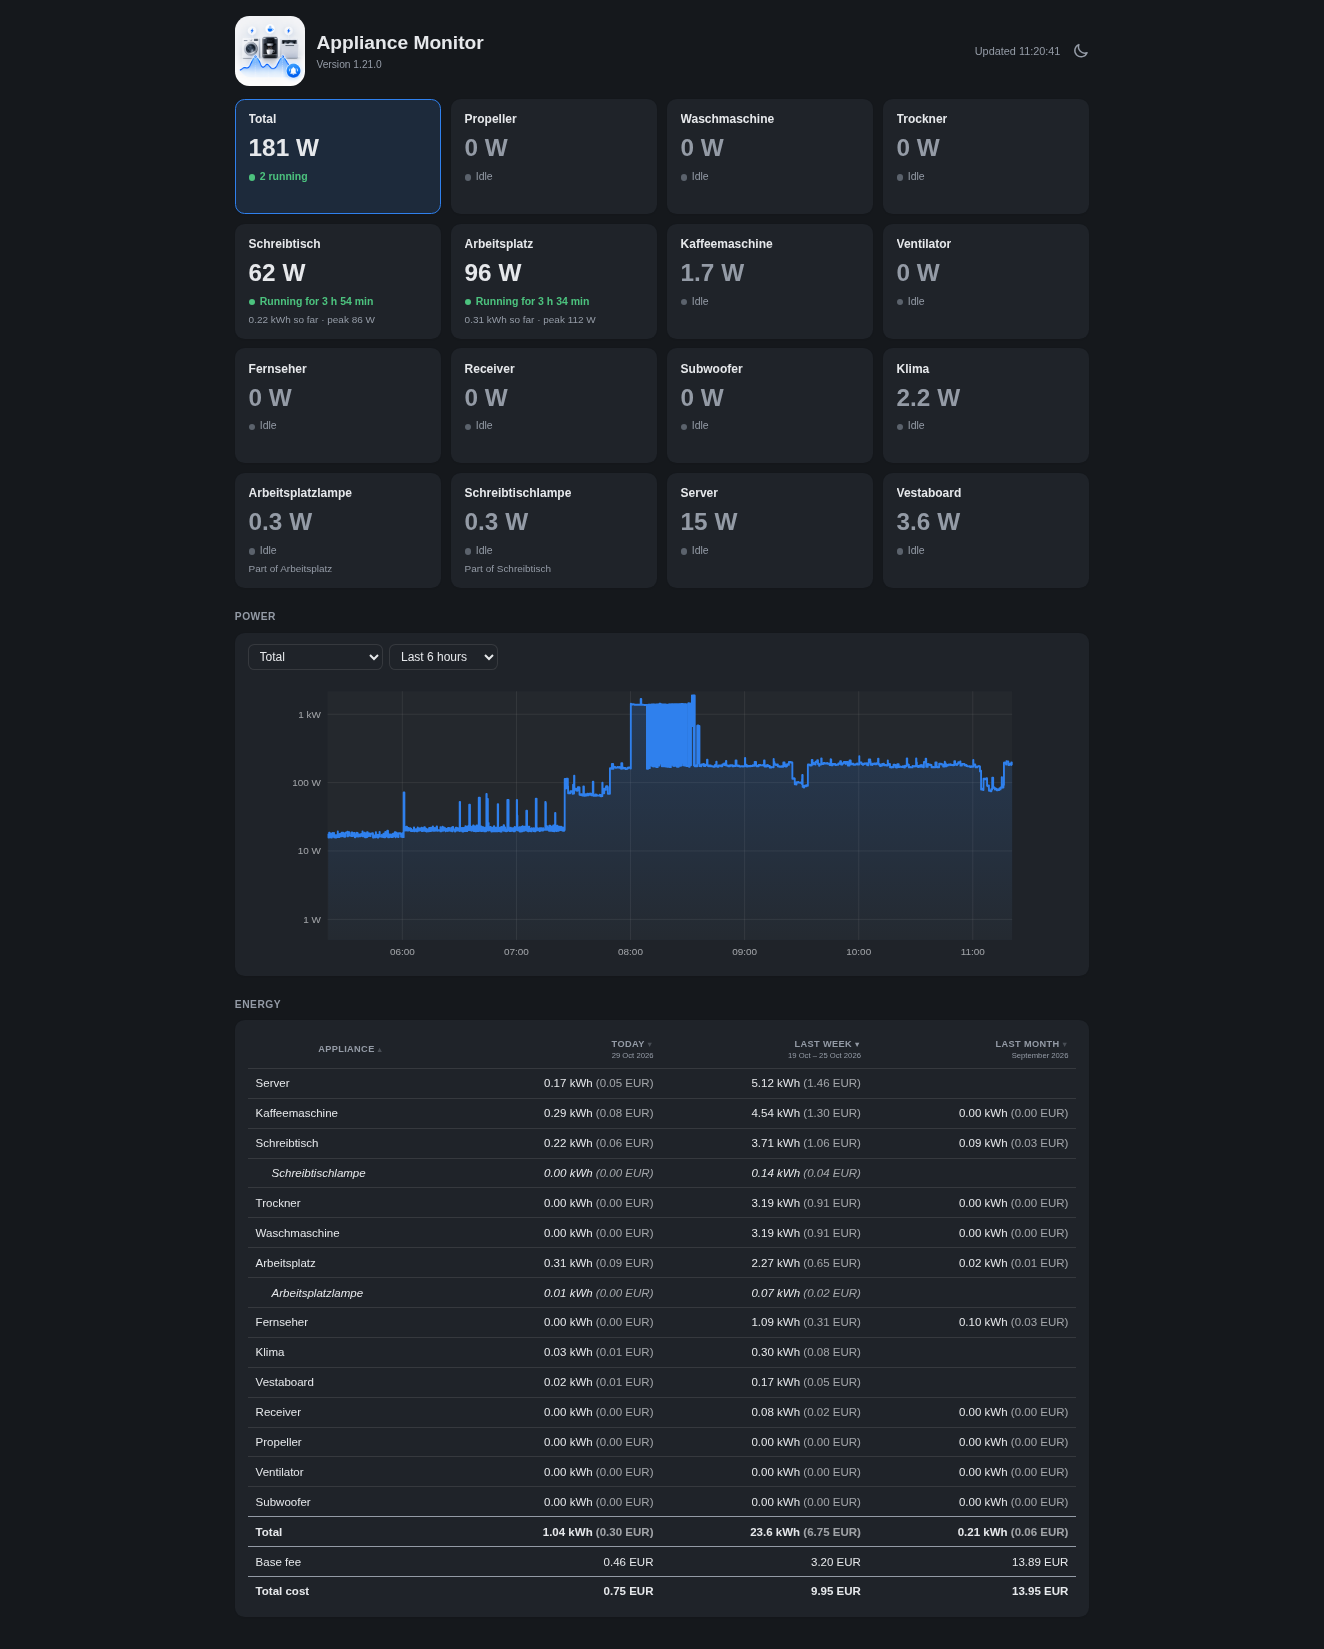
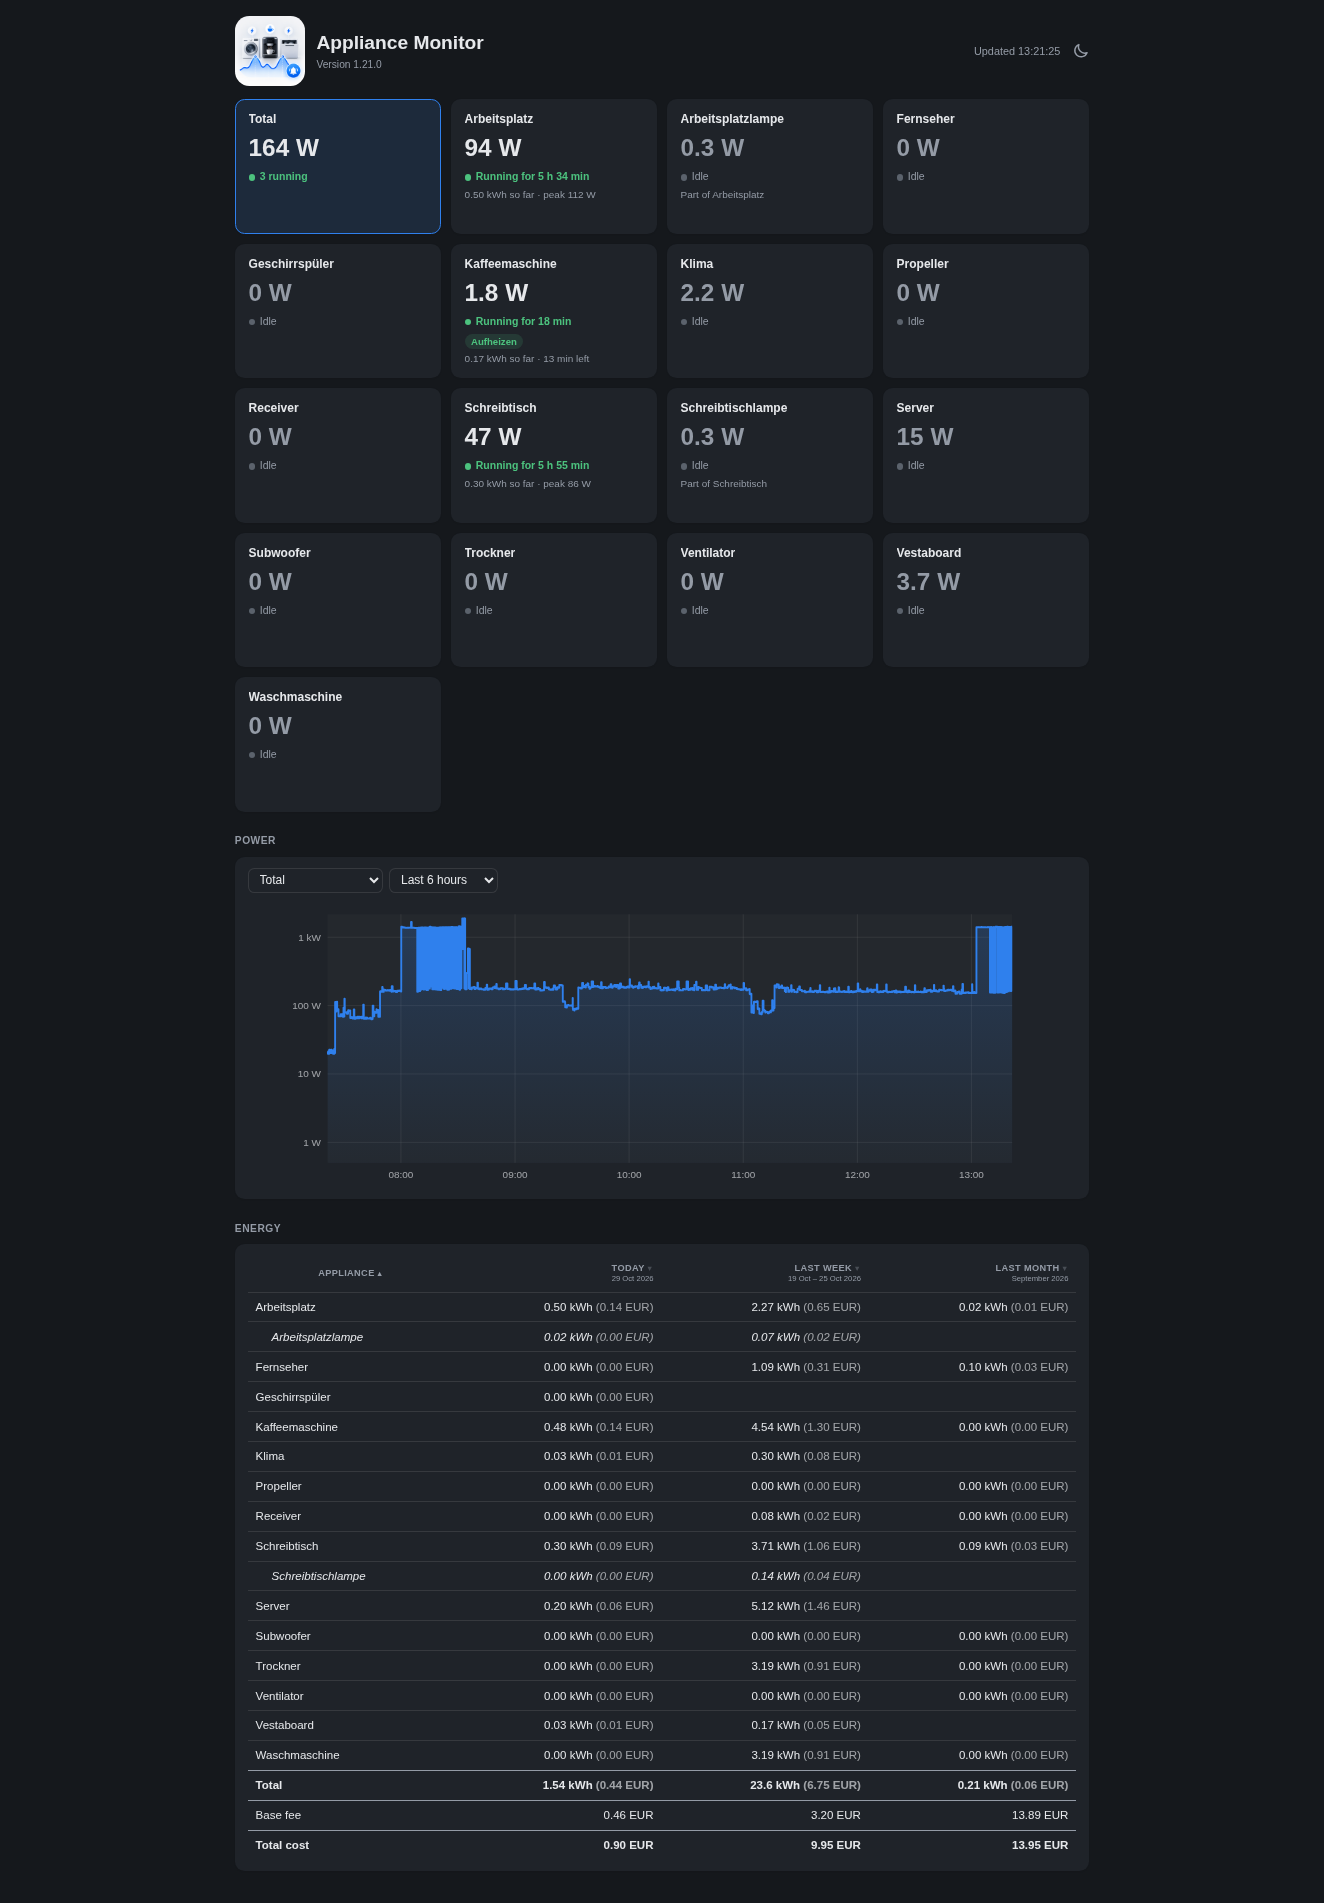
Dashboard: the tiles by name after the total, as the statistics begin; new screenshots
Claude-Session: https://claude.ai/code/session_01FXXeyGX9nkbXjdAycGNCsJ

diff --git a/homebridge-ui/public/shared.js b/homebridge-ui/public/shared.js
@@ -368,12 +368,12 @@
       }
       let compare;
       if (sort.column === 0) {
-        compare = (a, b) => table.rows[a].name.localeCompare(table.rows[b].name, LOCALE) * (sort.descending ? -1 : 1);
+        compare = (a, b) => byName(table.rows[a].name, table.rows[b].name) * (sort.descending ? -1 : 1);
       } else {
         // None last, whichever way; the same by name from A.
         const of = (index) => table.rows[index].values[sort.column - 1];
         compare = (a, b) => (of(a) === null) - (of(b) === null) || (of(a) - of(b)) * (sort.descending ? -1 : 1)
-          || table.rows[a].name.localeCompare(table.rows[b].name, LOCALE);
+          || byName(table.rows[a].name, table.rows[b].name);
       }
       body.replaceChildren(...sortedRows(table.depths, rows.length, compare).map((index) => rows[index]));
     };

diff --git a/web/dashboard.js b/web/dashboard.js
@@ -190,9 +190,10 @@
       names = fresh;
       fillPlugs();
     }
+    // The total first, then the appliances by name, as the statistics begin.
     $('tiles').replaceChildren(
       totalTile(appliances),
-      ...appliances.map((appliance) => tile(appliance, live.at)),
+      ...[...appliances].sort((a, b) => byName(a.name, b.name)).map((appliance) => tile(appliance, live.at)),
     );
   }
 
